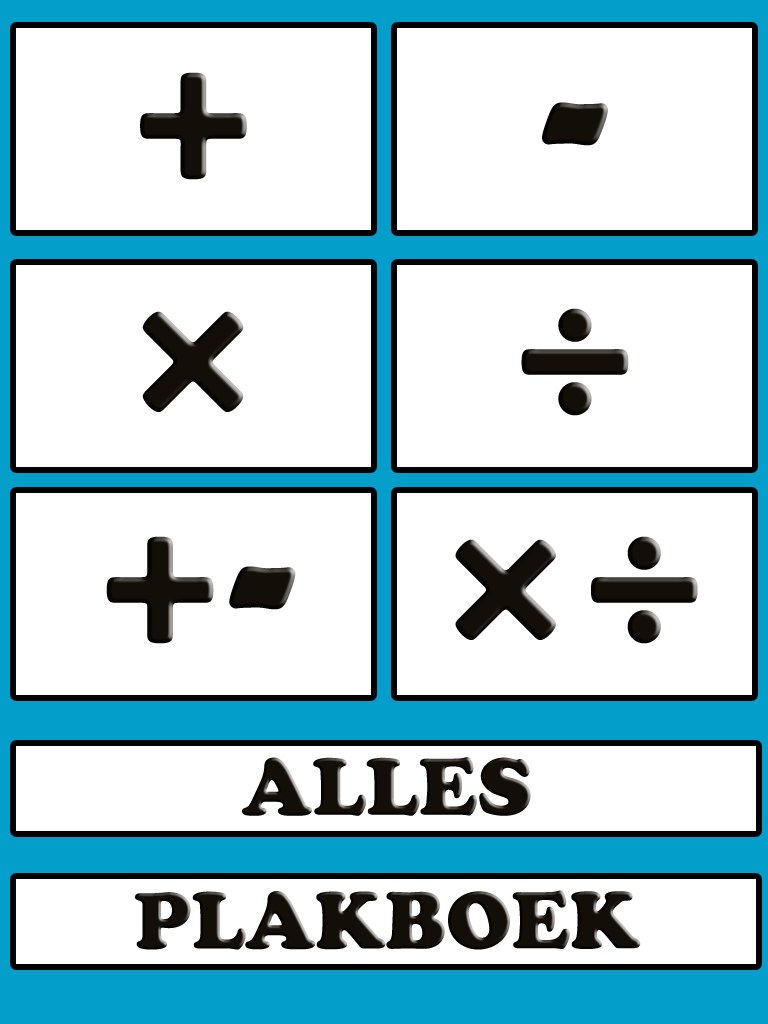
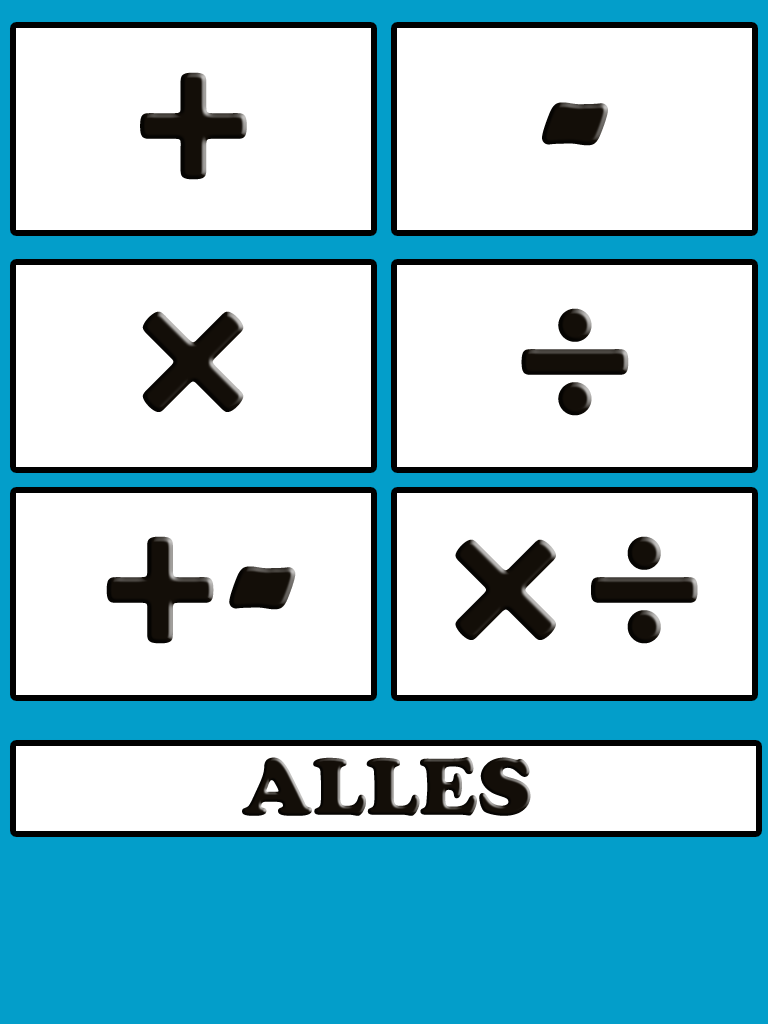
klaaaar

Changed region(s): [[0.0, 0.8438, 1.0, 0.9688]]

diff --git a/klaar.html b/klaar.html
@@ -1,0 +1,30 @@
+<!DOCTYPE html>
+<html>
+	<head>
+		<meta charset="utf-8">
+		<meta name="viewport" content="width=device-width, initial-scale=1"> 
+		<title>Reken je rot!</title>
+		<!-- PhoneGap -->
+		<script src="phonegap.js" type="text/javascript"></script>
+
+		<!-- jQuery Mobile -->
+		<link rel="stylesheet" href="css/jquery.mobile.css" />
+		<script src="js/jquery.js"></script>
+		<script src="js/jquery.mobile.js"></script>
+
+		<!-- Jouw App -->
+		<script src="js/logic.js" type="text/javascript"></script>
+		
+		
+	</head>
+
+	<body  bgcolor=#039ECA>
+	
+	<img src="klaar.png" usemap="klaar">
+	
+	<map name="klaar">
+	
+		<area shape="rect" coords="317,875,455,974" href="index.html" alt="terug">
+	</map>
+	</body>
+</html>

diff --git a/plmalvl8.html b/plmalvl8.html
@@ -22,7 +22,7 @@
 
         if (isValid) {
 		  alert("Je hebt alle levels gemaakt!");
-		  window.location = 'index.html';
+		  window.location = 'klaar.html';
 
         } else {
             alert("Probeer het nog eens...");
